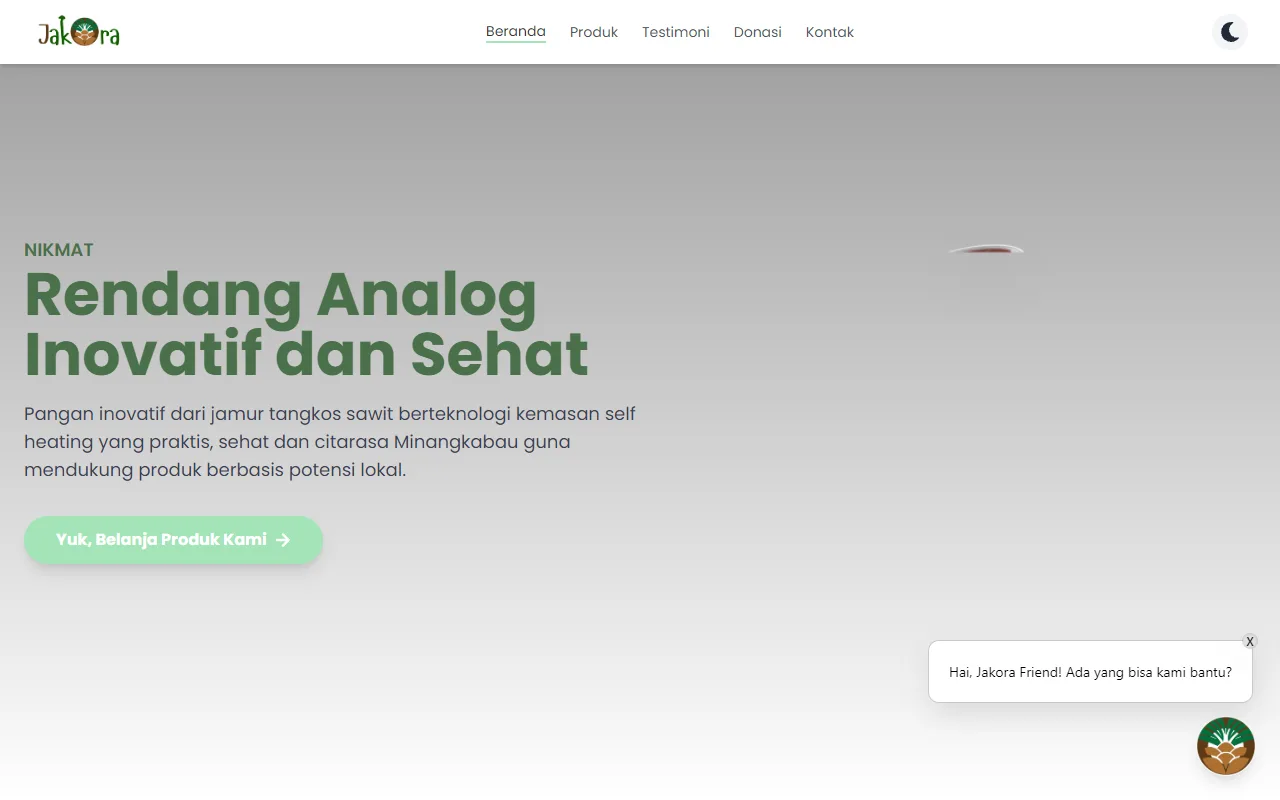
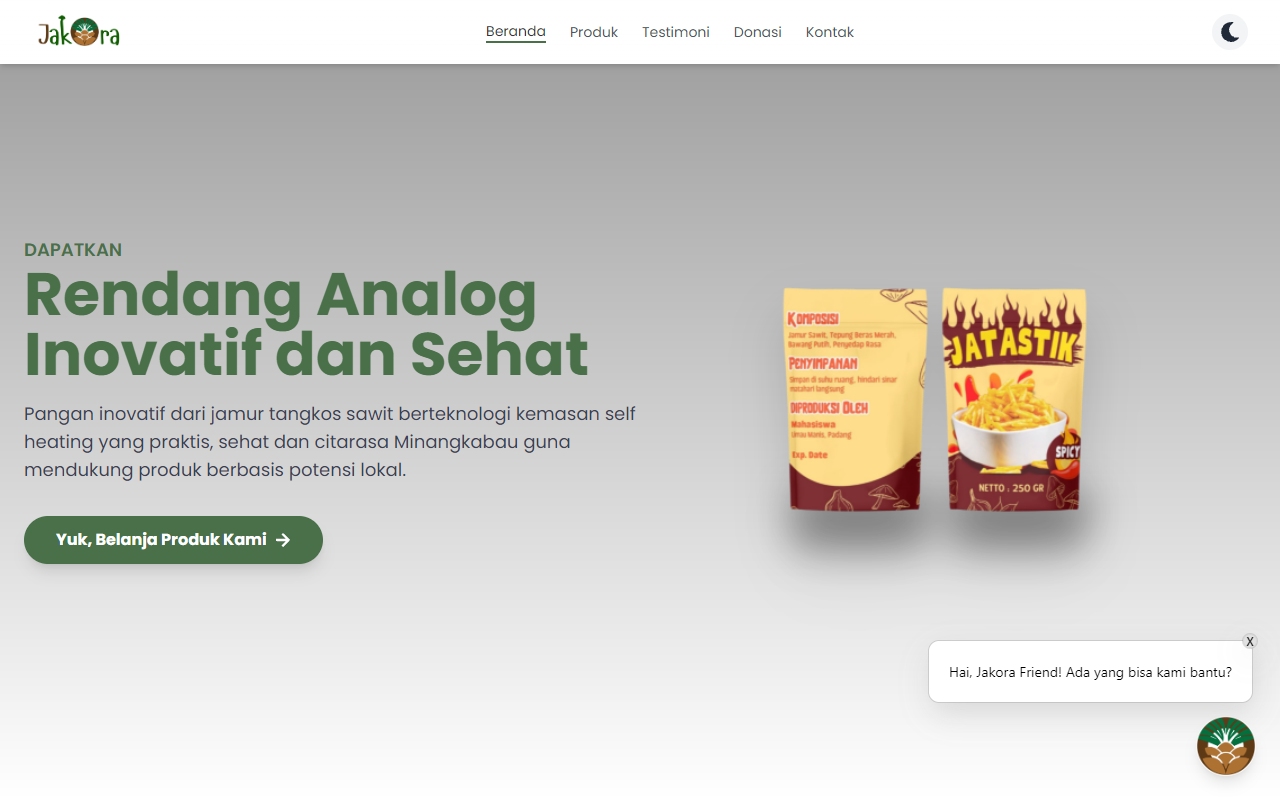
feat: add team photo for Hana Sugianto & update portfolio screenshots
- Add cropped team photo (WebP/PNG) for Hana Sugianto in public/team/
- Update portfolio screenshots for Imzaqi Store and Jakora in public/portfolio/
- Update photo and screenshot paths with cache-busting version params in src/data/content.ts and src/data/getLocalizedData.ts

diff --git a/src/data/getLocalizedData.ts b/src/data/getLocalizedData.ts
@@ -58,7 +58,7 @@ export function getLocalizedTeamMembers(lang: Lang) {
         name: 'Hana Sugianto',
         role: 'Full Stack Laravel / PHP Developer',
         description: 'Developing Laravel/PHP backend architecture, database management, and API integrations for business solutions.',
-        photo: '',
+        photo: '/team/hana-sugianto.webp?v=10',
       },
       {
         id: 4,
@@ -157,7 +157,7 @@ export function getLocalizedPortfolio(lang: Lang) {
         title: 'Imzaqi Store',
         category: 'E-Commerce App',
         period: 'Jan - Feb 2026',
-        screenshot: '/portfolio/imzaqi-store.webp',
+        screenshot: '/portfolio/imzaqi-store.webp?v=8',
         url: 'https://imzaqi.store',
         description: 'Digital account e-commerce platform for Indonesian students with QRIS payment integration.',
         longDescription: '20+ product catalog, search filtering, fast checkout, admin panel, and PWA offline support.',
@@ -185,7 +185,7 @@ export function getLocalizedPortfolio(lang: Lang) {
         title: 'Jakora',
         category: 'Landing Page',
         period: '2026',
-        screenshot: '/portfolio/jakora.webp',
+        screenshot: '/portfolio/jakora.webp?v=5',
         url: 'https://jakora.netlify.app',
         description: 'Landing page for Jakora, an innovative food & culinary brand from Padang.',
         longDescription: 'Displays products, reviews, donations, FAQ, and live WhatsApp chat.',

diff --git a/src/data/content.ts b/src/data/content.ts
@@ -211,7 +211,7 @@ export const portfolio = [
     title: 'Imzaqi Store',
     category: 'Aplikasi E-Commerce',
     period: 'Jan - Feb 2026',
-    screenshot: '/portfolio/imzaqi-store.webp',
+    screenshot: '/portfolio/imzaqi-store.webp?v=8',
     url: 'https://imzaqi.store',
     description: 'Platform e-commerce akun digital untuk pelajar Indonesia dengan pembayaran QRIS.',
     longDescription: 'Katalog 20+ produk, pencarian, dan alur pembelian singkat. Dilengkapi panel admin dan dukungan PWA.',
@@ -239,7 +239,7 @@ export const portfolio = [
     title: 'Jakora',
     category: 'Landing Page',
     period: '2026',
-    screenshot: '/portfolio/jakora.webp',
+    screenshot: '/portfolio/jakora.webp?v=5',
     url: 'https://jakora.netlify.app',
     description: 'Landing page untuk Jakora, brand pangan inovatif dari Padang.',
     longDescription: 'Menampilkan produk, testimoni, donasi, FAQ, dan live chat WhatsApp.',
@@ -317,7 +317,7 @@ export const teamMembers = [
     role: 'Full Stack Laravel / PHP Developer',
     description:
       'Mengembangkan arsitektur backend Laravel/PHP, manajemen database, dan integrasi API untuk solusi bisnis.',
-    photo: '',
+    photo: '/team/hana-sugianto.webp?v=10',
   },
   {
     id: 4,
